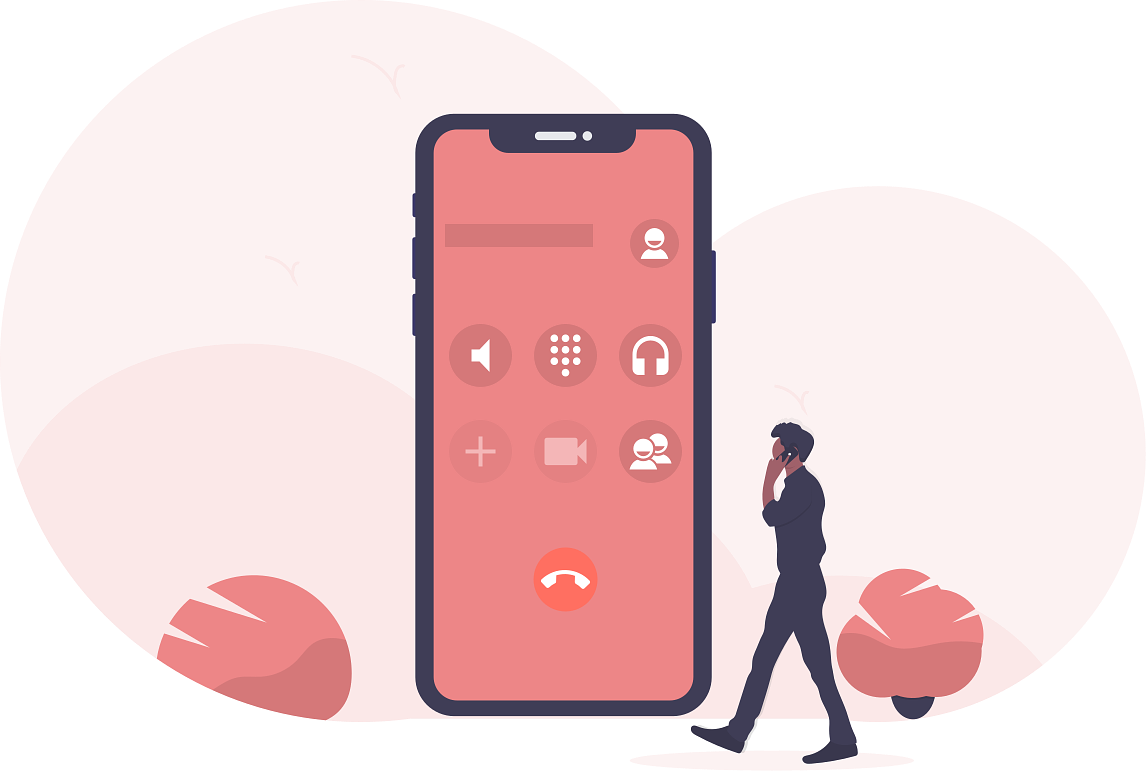
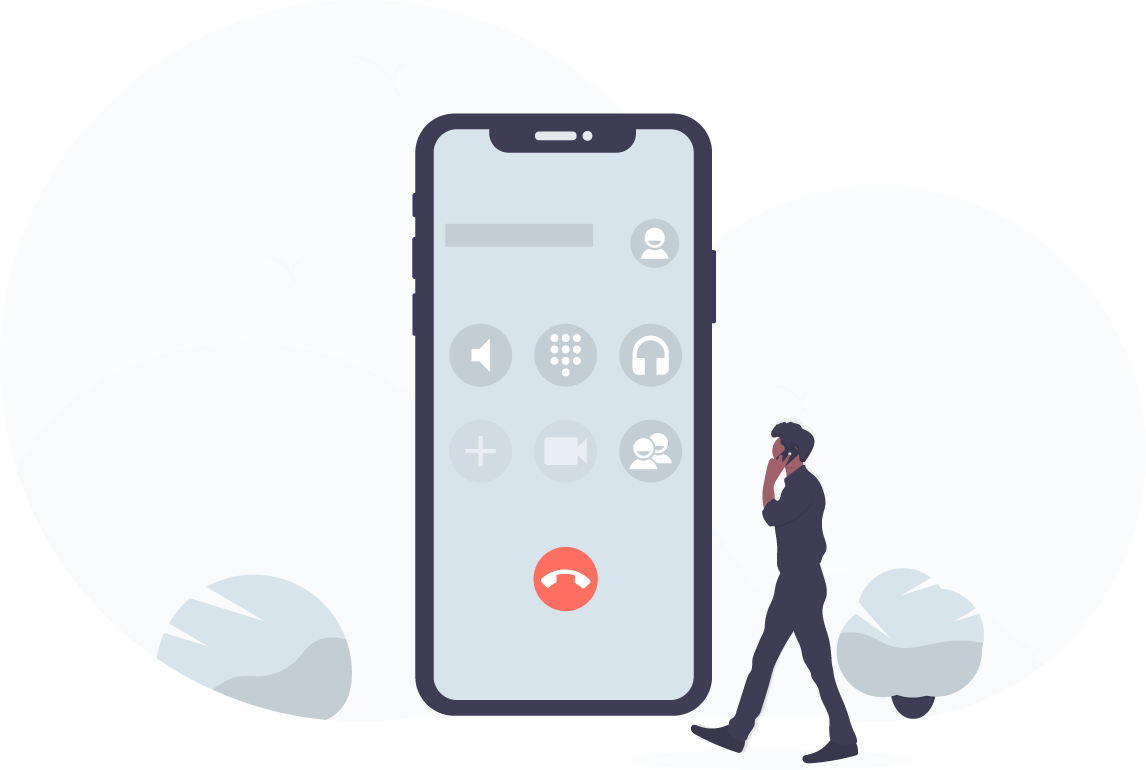
theme change

Changed region(s): [[0.3665, 0.1558, 0.6108, 0.9351], [0.1222, 0.7481, 0.3054, 0.9351], [0.7024, 0.7169, 0.8551, 0.9039]]

diff --git a/app/components/ProfileInput.js b/app/components/ProfileInput.js
@@ -4,7 +4,7 @@ import {widthPercentageToDP as wp, heightPercentageToDP as hp} from 'react-nativ
 import { Input, Item, Button, Container, Form, Spinner, Picker } from 'native-base';
 import {inject, observer} from "mobx-react/native";
 import Toast from 'react-native-easy-toast';
-
+import LinearGradient from 'react-native-linear-gradient';
 import profile from '../assets/profile.png';
 
 const win = Dimensions.get('window');
@@ -79,19 +79,23 @@ export default class ProfileInput extends React.Component {
 
     render() {
       return (
-        <Container style={{ backgroundColor: '#ffffff' }}>
+        <Container>
+                <LinearGradient
+        colors={['#77b4db', '#da62b7']}
+        style={{flex: 1}}
+      >
           <StatusBar
-            backgroundColor="white"
+            backgroundColor="#77b4db"
             barStyle="dark-content"
             translucent={false} />
-          <View padder style={{flex:1, justifyContent: 'center', alignItems:"center", margin: '10%', borderWidth: 4, borderColor: '#ed8687'}}>
+          <View padder style={{flex:1, justifyContent: 'center', alignItems:"center", margin: '10%', borderWidth: 4, borderColor: '#d8e4ec'}}>
             <Image style={styles.image} source={ profile } />
             <ScrollView>
               <Form>
                 <Item style={{ width: wp('50%') }}>
                 <Input
                   value={this.state.name} 
-                  placeholderTextColor='#ed8687' 
+                  placeholderTextColor='#d8e4ec' 
                   style={styles.input} 
                   placeholder="نام و نام خانوادگی" 
                   onChangeText={(text) => this.onChangeName(text)} />
@@ -99,21 +103,21 @@ export default class ProfileInput extends React.Component {
                 <Item style={{ width: wp('50%') }}>
                   <Input
                     value={this.state.phone2} 
-                    placeholderTextColor='#ed8687' 
+                    placeholderTextColor='#d8e4ec' 
                     style={styles.input} 
                     placeholder="شماره فرد نزدیک" 
                     onChangeText={(text) => this.onChangePhone2(text)} />
                 </Item>
                 <Item style={{ width: wp('50%') }}>
-                  <Input value={this.state.age} placeholderTextColor='#ed8687' style={styles.input} placeholder="سن" onChangeText={(text) => this.onChangeAge(text)} />
+                  <Input value={this.state.age} placeholderTextColor='#d8e4ec' style={styles.input} placeholder="سن" onChangeText={(text) => this.onChangeAge(text)} />
                 </Item>
                 <Item style={{ width: wp('50%') }}>
                   <Picker
                     selectedValue={this.state.sex}
-                    style={{ height: 40, color: '#ed8687', marginTop: 10 }}
+                    style={{ height: 40, color: '#d8e4ec', marginTop: 10 }}
                     itemStyle={styles.input}
-                    placeholderStyle={{ color: "#ed8687" }}
-                    placeholderIconColor="#ed8687"
+                    placeholderStyle={{ color: "#d8e4ec" }}
+                    placeholderIconColor="#d8e4ec"
                     onValueChange={(itemValue, itemIndex) => this.setState({sex: itemValue})}>
                     <Picker.Item label="آقا" value="2" />
                     <Picker.Item label="خانم" value="1" />
@@ -122,7 +126,7 @@ export default class ProfileInput extends React.Component {
                 </Item>
                   {this.state.sex == 1 ?
                     <Item style={{ width: wp('50%') }}>
-                      <Input value={this.state.periodDay} placeholderTextColor='#ed8687' style={styles.input} placeholder="روز شروع عادت ماهانه" onChangeText={(text) => this.onChangePeriodDay(text)} />
+                      <Input value={this.state.periodDay} placeholderTextColor='#d8e4ec' style={styles.input} placeholder="روز شروع عادت ماهانه" onChangeText={(text) => this.onChangePeriodDay(text)} />
                     </Item>
                     :
                     null
@@ -131,10 +135,10 @@ export default class ProfileInput extends React.Component {
             </ScrollView>
             <View style={{alignItems:"center"}} >
               {this.state.loading?
-                <Spinner color='#ed8687' style={{marginTop: wp('20%')}}/>
+                <Spinner color='#d8e4ec' style={{marginTop: wp('20%')}}/>
               :
-                <Button  style={{backgroundColor: '#ffffff', borderColor: '#ed8687', borderWidth: 3, justifyContent: 'center', marginTop: wp('5%'), width: wp('50%'), height: hp('7%') }} onPress={() => this.sendProfile()}>
-                  <Text style={{ fontFamily: "IRANSansMobile_Bold", fontSize: wp('60%') / hp('2%'), color: '#ed8687'}}>ارسال</Text>
+                <Button  style={{backgroundColor: '#d8e4ec', justifyContent: 'center', marginTop: wp('5%'), width: wp('50%'), height: hp('7%') }} onPress={() => this.sendProfile()}>
+                  <Text style={{ fontFamily: "IRANSansMobile_Bold", fontSize: wp('60%') / hp('2.5%'), color: '#da62b7'}}>ارسال</Text>
                 </Button>
               }
             </View>
@@ -149,6 +153,7 @@ export default class ProfileInput extends React.Component {
             opacity={0.8}
             textStyle={{color:'white', fontFamily:"IRANSansMobile", fontSize: wp('60%') / hp('2%')}}
           />
+          </LinearGradient>
         </Container>
       );
     }
@@ -158,7 +163,7 @@ const styles = StyleSheet.create({
   input: {
     fontFamily: "IRANSansMobile", 
     fontSize: wp('60%') / hp('3%'),
-    color: '#ed8687'
+    color: '#d8e4ec'
   },
   image: {
     

diff --git a/app/components/PhoneInput.js b/app/components/PhoneInput.js
@@ -1,9 +1,10 @@
 import React from 'react';
-import { Text, View, Dimensions, StyleSheet, Image, StatusBar } from "react-native";
+import { Text, Dimensions, StyleSheet, Image, StatusBar } from "react-native";
 import {widthPercentageToDP as wp, heightPercentageToDP as hp} from 'react-native-responsive-screen';
-import { Input, Form, Item, Button, Container, Spinner } from 'native-base';
+import { Input, Form, Item, Button, Container, Spinner, View } from 'native-base';
 import {inject, observer} from "mobx-react/native";
 import Toast from 'react-native-easy-toast';
+import LinearGradient from 'react-native-linear-gradient';
 
 import phone from '../assets/phone.png';
 import ribbon from '../assets/ribbon.png'
@@ -58,24 +59,28 @@ export default class PhoneInput extends React.Component {
 
     render() {
       return (
-        <Container style={{ backgroundColor: '#ffffff' }}>
+        <Container>
+                <LinearGradient
+        colors={['#77b4db', '#da62b7']}
+        style={{flex: 1}}
+      >
           <StatusBar
-            backgroundColor="white"
+            backgroundColor="#77b4db"
             barStyle="dark-content"
             translucent={false} />
-          <View padder style={{flex:1, justifyContent: 'center', alignItems:"center", margin: '10%', borderWidth: 4, borderColor: '#ed8687'}}>
+          <View padder style={{flex:1, justifyContent: 'center', alignItems:"center", margin: '10%', borderWidth: 4, borderColor: '#d8e4ec'}}>
             <Image style={styles.image} source={ phone } />
             <Form>
               <Item floatingLabel style={{ width: wp('50%') }}>
-                <Input onSubmitEditing={() => this.sendPhone()} value={this.state.mobile} placeholderTextColor='#ed8687' style={{color: '#ed8687', fontFamily: "IRANSansMobile", fontSize: wp('60%') / hp('2%'), marginTop: wp('5%') }} keyboardType="numeric" placeholder="شماره موبایل" onChangeText={(text) => this.onChangeMobile(text)} />
+                <Input onSubmitEditing={() => this.sendPhone()} value={this.state.mobile} placeholderTextColor='#d8e4ec' style={{color: '#d8e4ec', fontFamily: "IRANSansMobile", fontSize: wp('60%') / hp('2.5%'), marginTop: wp('5%') }} keyboardType="numeric" placeholder="شماره موبایل" onChangeText={(text) => this.onChangeMobile(text)} />
               </Item>
             </Form>
             <View style={{alignItems:"center"}} >
               {this.state.loading?
-                <Spinner color='#ed8687' style={{marginTop: wp('20%')}}/>
+                <Spinner color='#d8e4ec' style={{marginTop: wp('20%')}}/>
               :
-                <Button style={{backgroundColor: '#ffffff', borderColor: '#ed8687', borderWidth: 3, justifyContent: 'center', marginTop: wp('20%'), width: wp('50%'), height: hp('7%') }} onPress={() => this.sendPhone()}>
-                  <Text style={{ fontFamily: "IRANSansMobile_Bold", fontSize: wp('60%') / hp('2.5%'), color: '#ed8687'}}>ارسال کد تایید</Text>
+                <Button style={{backgroundColor: '#d8e4ec', justifyContent: 'center', marginTop: wp('20%'), width: wp('50%'), height: hp('7%') }} onPress={() => this.sendPhone()}>
+                  <Text style={{ fontFamily: "IRANSansMobile_Bold", fontSize: wp('60%') / hp('2.5%'), color: '#da62b7'}}>ارسال کد تایید</Text>
                 </Button>
               }
             </View>
@@ -90,7 +95,9 @@ export default class PhoneInput extends React.Component {
             opacity={0.8}
             textStyle={{color:'white', fontFamily:"IRANSansMobile", fontSize: wp('3%')}}
           />
+                  </LinearGradient>
         </Container>
+
       );
     }
 }

diff --git a/app/components/VerificationInput.js b/app/components/VerificationInput.js
@@ -4,7 +4,7 @@ import {widthPercentageToDP as wp, heightPercentageToDP as hp} from 'react-nativ
 import { Input, Item, Button, Container, Form, Spinner } from 'native-base';
 import {inject, observer} from "mobx-react/native";
 import Toast from 'react-native-easy-toast';
-
+import LinearGradient from 'react-native-linear-gradient';
 import verification from '../assets/verification.png';
 
 const win = Dimensions.get('window');
@@ -58,24 +58,28 @@ export default class VerificationInput extends React.Component {
 
     render() {
       return (
-        <Container style={{ backgroundColor: '#ffffff' }}>
+        <Container>
+                <LinearGradient
+        colors={['#77b4db', '#da62b7']}
+        style={{flex: 1}}
+      >
           <StatusBar
-            backgroundColor="white"
+            backgroundColor="#77b4db"
             barStyle="dark-content"
             translucent={false} />
-          <View padder style={{flex:1, justifyContent: 'center', alignItems:"center", margin: '10%', borderWidth: 4, borderColor: '#ed8687'}}>
+          <View padder style={{flex:1, justifyContent: 'center', alignItems:"center", margin: '10%', borderWidth: 4, borderColor: '#d8e4ec'}}>
             <Image style={styles.image} source={ verification } />
             <Form>
               <Item floatingLabel style={{ width: wp('50%') }}>
-                <Input onSubmitEditing={() => this.sendVerification()} value={this.state.code} placeholderTextColor='#ed8687' style={{color: '#ed8687', fontFamily: "IRANSansMobile", fontSize: wp('60%') / hp('2%'), marginTop: wp('5%') }} keyboardType="numeric" placeholder="کد تایید" onChangeText={(text) => this.onChangeCode(text)} />
+                <Input onSubmitEditing={() => this.sendVerification()} value={this.state.code} placeholderTextColor='#d8e4ec' style={{color: '#d8e4ec', fontFamily: "IRANSansMobile", fontSize: wp('60%') / hp('2.5%'), marginTop: wp('5%') }} keyboardType="numeric" placeholder="کد تایید" onChangeText={(text) => this.onChangeCode(text)} />
               </Item>
             </Form>
             <View style={{alignItems:"center"}} >
               {this.state.loading?
-                <Spinner color='#ed8687' style={{marginTop: wp('20%')}}/>
+                <Spinner color='#d8e4ec' style={{marginTop: wp('20%')}}/>
               :
-                <Button  style={{backgroundColor: '#ffffff', borderColor: '#ed8687', borderWidth: 3, justifyContent: 'center', marginTop: wp('20%'), width: wp('50%'), height: hp('7%') }} onPress={() => this.sendVerification()}>
-                  <Text style={{ fontFamily: "IRANSansMobile_Bold", fontSize: wp('60%') / hp('2.5%'), color: '#ed8687'}}>ارسال</Text>
+                <Button  style={{backgroundColor: '#d8e4ec', justifyContent: 'center', marginTop: wp('20%'), width: wp('50%'), height: hp('7%') }} onPress={() => this.sendVerification()}>
+                  <Text style={{ fontFamily: "IRANSansMobile_Bold", fontSize: wp('60%') / hp('2.5%'), color: '#da62b7'}}>ارسال</Text>
                 </Button>
               }
             </View>
@@ -90,6 +94,7 @@ export default class VerificationInput extends React.Component {
             opacity={0.8}
             textStyle={{color:'white', fontFamily:"IRANSansMobile", fontSize: wp('3%')}}
           />
+          </LinearGradient>
         </Container>
       );
     }

diff --git a/app/components/QuestionsInput.js b/app/components/QuestionsInput.js
@@ -69,20 +69,24 @@ export default class QuestionsInput extends React.Component {
     render() {
       return (
         <Container>
+                <LinearGradient
+        colors={['#77b4db', '#da62b7']}
+        style={{flex: 1}}
+      >
           <StatusBar
-            backgroundColor="white"
+            backgroundColor="#77b4db"
             barStyle="dark-content"
             translucent={false} />
-            <View padder style={{flex:1, margin: '10%', borderWidth: 4, borderColor: '#ed8687'}}>
+            <View padder style={{flex:1, margin: '10%', borderWidth: 4, borderColor: '#d8e4ec'}}>
               {this.state.loading?
-                <Spinner color='#f47983'/>
+                <Spinner color='#d8e4ec'/>
               :
                 <View style={{flex: 1, alignItems:'center', margin: wp('10%'), flexDirection: 'column'}} >
-                  <Text style={{marginBottom: 10, fontFamily: "IRANSansMobile_Bold", fontSize: wp('65%') / hp('2%'), color: '#ed8687'}}>{this.state.q.title}</Text>
+                  <Text style={{marginBottom: 10, fontFamily: "IRANSansMobile_Bold", fontSize: wp('65%') / hp('2%'), color: '#d8e4ec'}}>{this.state.q.title}</Text>
                   <ScrollView>
                     {this.state.q.options.map(item=>{
-                      return <Button  style={{backgroundColor: '#ffffff', borderColor: '#ed8687', borderWidth: 3, justifyContent: 'center', marginTop: hp('5%'), width: wp('50%'), height: hp('7%') }} onPress={() => this.sendAnswer(this.state.q.id, item.qid, this.state.q.fvalue)}>
-                                <Text style={{ fontFamily: "IRANSansMobile", fontSize: wp('60%') / hp('2%'), color: '#ed8687'}}>{item.text}</Text>
+                      return <Button  style={{backgroundColor: '#d8e4ec', justifyContent: 'center', marginTop: hp('5%'), width: wp('50%'), height: hp('7%') }} onPress={() => this.sendAnswer(this.state.q.id, item.qid, this.state.q.fvalue)}>
+                                <Text style={{ fontFamily: "IRANSansMobile", fontSize: wp('60%') / hp('2%'), color: '#da62b7'}}>{item.text}</Text>
                               </Button>
                     })}
                   </ScrollView>
@@ -99,6 +103,7 @@ export default class QuestionsInput extends React.Component {
             opacity={0.8}
             textStyle={{color:'white', fontFamily:"IRANSansMobile"}}
           />
+          </LinearGradient>
         </Container>
       );
     }

diff --git a/app/screens/Login.js b/app/screens/Login.js
@@ -10,7 +10,7 @@ export default class Login extends React.Component {
         this.state = {
             mobile: null,
             q: null,
-            stage: 2 // 0: entering the phoneNumber, 1: the verification code, 2: completing the profile, 3: bse, 4: the questions
+            stage: 3 // 0: entering the phoneNumber, 1: the verification code, 2: completing the profile, 3: bse, 4: the questions
         }
     }
     

diff --git a/android/app/src/main/java/com/nabaat_hackahealth/MainApplication.java b/android/app/src/main/java/com/nabaat_hackahealth/MainApplication.java
@@ -3,6 +3,7 @@ package com.nabaat_hackahealth;
 import android.app.Application;
 
 import com.facebook.react.ReactApplication;
+import com.BV.LinearGradient.LinearGradientPackage;
 import com.oblador.vectoricons.VectorIconsPackage;
 import com.airbnb.android.react.lottie.LottiePackage;
 import com.facebook.react.ReactNativeHost;
@@ -25,6 +26,7 @@ public class MainApplication extends Application implements ReactApplication {
     protected List<ReactPackage> getPackages() {
       return Arrays.<ReactPackage>asList(
           new MainReactPackage(),
+            new LinearGradientPackage(),
             new VectorIconsPackage(),
             new LottiePackage()
       );
